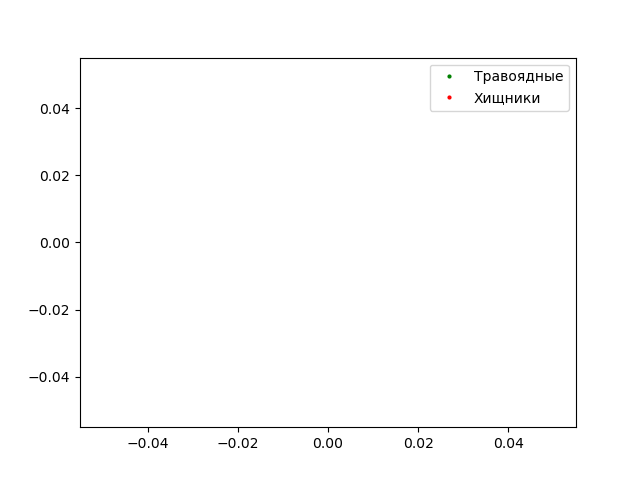
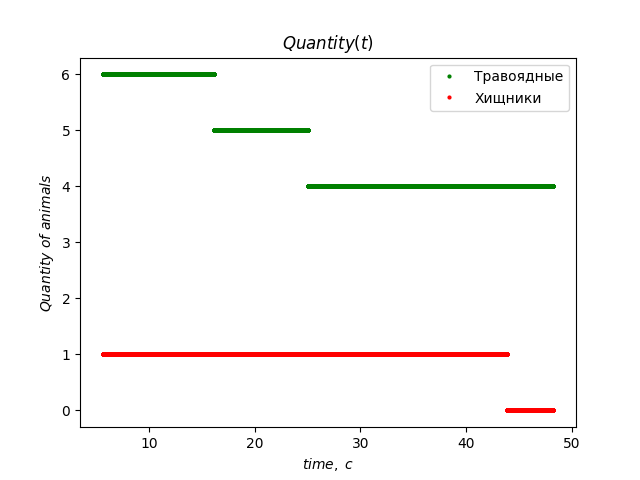
Уход от погони добавлен!

diff --git a/Animals.py b/Animals.py
@@ -90,7 +90,8 @@ class Cattle(Animal):
         self.anxiety = 0  # represents how anxious the animal is
         self.mass = 10 ** 3  # mass of the animal
         self.state = Cattle.st_idle
-        self.velocity = 45  # cattle basic speed
+        self.nearest_predator = None
+        self.velocity = 35  # cattle basic speed
         self.color = 'green'
         self.notice_radius = 60  # radius where cattle notices objects
         self.id = canv.create_oval(self.coord_x - self.radius,
@@ -106,7 +107,15 @@ class Cattle(Animal):
             return True
 
     def notice_predator(self):
-        pass
+        if self.nearest_predator == None:
+            return False
+        else:
+            r = math.sqrt((self.nearest_predator.coord_x - self.coord_x) ** 2 +
+                          (self.nearest_predator.coord_y - self.coord_y) ** 2)
+            if r <= self.notice_radius:
+                return True
+            else:
+                return False
 
     def is_thirsty(self):
         pass
@@ -140,6 +149,14 @@ class Cattle(Animal):
                 self.velocity_x = self.velocity * math.cos(varphi)
                 self.velocity_y = self.velocity * math.sin(varphi)
                 self.clock.start(2)
+
+        if self.state == Cattle.st_runaway:
+            d_x = (- self.coord_x + self.nearest_predator.coord_x)
+            d_y = (- self.coord_y + self.nearest_predator.coord_y)
+            r = math.sqrt(d_x ** 2 + d_y ** 2)
+            self.velocity_x = -self.velocity * d_x / r
+            self.velocity_y = -self.velocity * d_y / r
+            self.thirst += 2
 
 class Predator(Animal):
     st_idle = 0  # wandering around state

diff --git a/Main.py b/Main.py
@@ -123,15 +123,20 @@ def main_game():
                 if r <= r_min:                                                            # to predator
                     p.nearest_predator = k  # defines nearest cattle
                     r_min = r
-        print('Здоровье: ', p.health, 'Жажда: ', p.thirst, 'Голод: ', p.hunger)
+        #print('Здоровье: ', p.health, 'Жажда: ', p.thirst, 'Голод: ', p.hunger)
         p.update()
         p.move(delta_t)
 
     for c in cattle:  # cattle life
-        # not to enter the lake
         while ((c.coord_x - x_lake) / (a_axle + 0.6 * R)) ** 2 + ((c.coord_y - y_lake) / (b_axle + 0.6 * R)) ** 2 <= 1:
             c.coord_x = randint(20, length - 20)
             c.coord_y = randint(20, height - 20)
+        r_min = 1000000000
+        for p in predators:
+            r = ((p.coord_x - c.coord_x) ** 2 + (p.coord_y - c.coord_y) ** 2) ** 0.5  # distance from cattle to predator
+            if r <= r_min:
+                c.nearest_predator = p  # defines nearest predactor
+                r_min = r
         c.update()
         c.move(delta_t)
     write_statistics(delta_t)  # writes quantity and time in massives below
